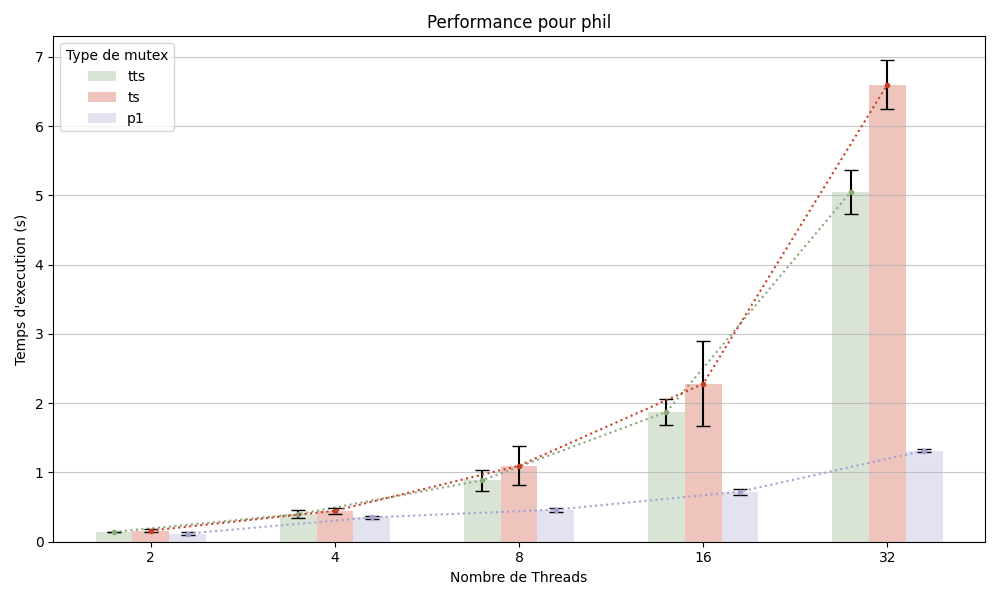
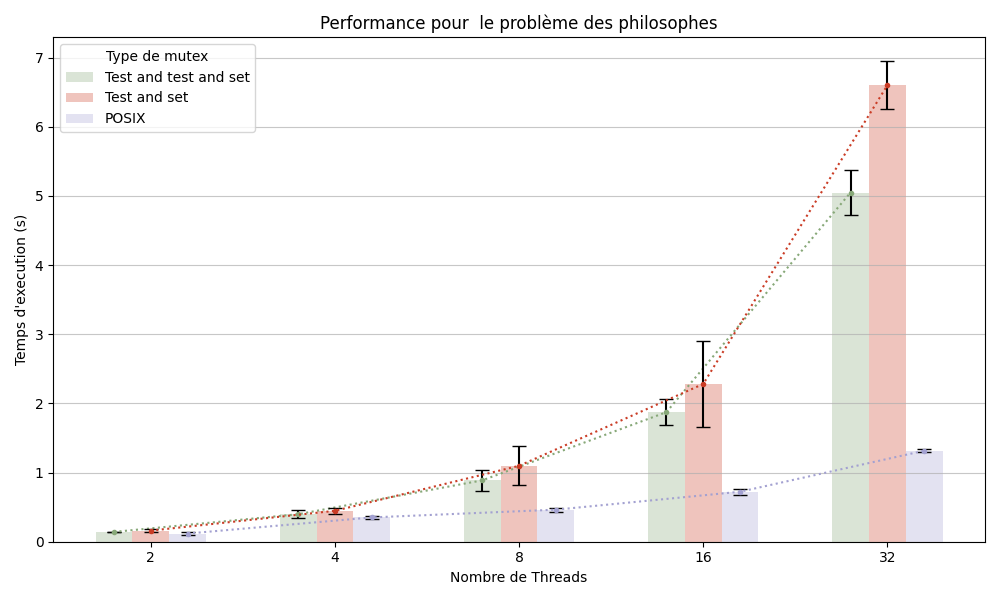
changed graphs

diff --git a/src/performance/graphs/graphs_custom.py b/src/performance/graphs/graphs_custom.py
@@ -42,16 +42,21 @@ for program in program_types:
         mutex_data = program_data[program_data['Mutex'] == mutex]
         mean_values = mutex_data.set_index('Nombre de Threads')['mean_time'].reindex(thread_counts, fill_value=0)
         std_values = mutex_data.set_index('Nombre de Threads')['std_time'].reindex(thread_counts, fill_value=0)
-
+        if mutex == "p1": mutex = "POSIX"
+        if mutex == "tts": mutex = "Test and test and set"
+        if mutex == "ts": mutex = "Test and set"
         bar_positions = index + i * bar_width
         ax.bar(bar_positions, mean_values, bar_width,
                yerr=std_values, label=mutex,
                color=colors[i], alpha=0.3, capsize=5)
 
         ax.plot(bar_positions, mean_values, color=colors[i], marker='.', linestyle='dotted')
-
+    program_name = ""
+    if program == "phil": program_name = " le problème des philosophes"
+    if program == "prod": program_name = "le problème des producteurs-consommateurs"
+    if program == "rw": program_name = "le problème des lecteurs et écrivains"
     # Graph settings
-    ax.set_title(f'Performance pour {program}')
+    ax.set_title(f'Performance pour {program_name}')
     ax.set_xlabel('Nombre de Threads')
     ax.set_ylabel('Temps d\'execution (s)')
     ax.set_xticks(index + bar_width)

diff --git a/src/performance/graphs/graphs_mutex.py b/src/performance/graphs/graphs_mutex.py
@@ -37,7 +37,7 @@ for i, program in enumerate(pivoted1.columns):
     mean_values1 = pivoted1[program].fillna(0) # .fillna() -> empêcher d'avoir une erreur si pas de valeur
     std_values1 = std_pivoted1[program].fillna(0)
     ax.bar(index + i * bar_width, mean_values1, bar_width,
-           yerr=std_values1, label=f'{program} (tts)',
+           yerr=std_values1, label='Test and test and set',
            color=colors[i % len(colors)], capsize=5)
 
     ax.plot(index + i * bar_width, mean_values1, color=colors[i % len(colors)], marker='.', linestyle='dotted')
@@ -46,7 +46,7 @@ for i, program in enumerate(pivoted2.columns):
     mean_values2 = pivoted2[program].fillna(0) # .fillna() -> empêcher d'avoir une erreur si pas de valeur
     std_values2 = std_pivoted2[program].fillna(0)
     ax.bar(index + (len(pivoted1.columns) + i) * bar_width, mean_values2, bar_width,
-           yerr=std_values2, label=f'{program} (ts)',
+           yerr=std_values2, label='Test and set',
            color=colors[(i + len(pivoted1.columns)) % len(colors)], capsize=5)
 
     ax.plot(index + (len(pivoted1.columns) + i) * bar_width, mean_values2, color=colors[(i + len(pivoted1.columns)) % len(colors)], marker='.', linestyle='dotted')

diff --git a/src/performance/graphs/graphs.py b/src/performance/graphs/graphs.py
@@ -39,9 +39,12 @@ for program in program_types:
 
     # Add points centered on the bars
     ax.plot(index, mean_values, color=color, marker='o', linestyle='dotted')
-
+    program_name = ""
+    if program == "phil": program_name = " le problème des philosophes"
+    if program == "prod": program_name = "le problème des producteurs-consommateurs"
+    if program == "rw": program_name = "le problème des lecteurs et écrivains"
     # Graph settings
-    ax.set_title(f'Performance de {program}')
+    ax.set_title(f'Performance pour {program_name}')
     ax.set_xlabel('Nombre de Threads')
     ax.set_ylabel('Temps d\'execution(s)')
     ax.set_xticks(index)
